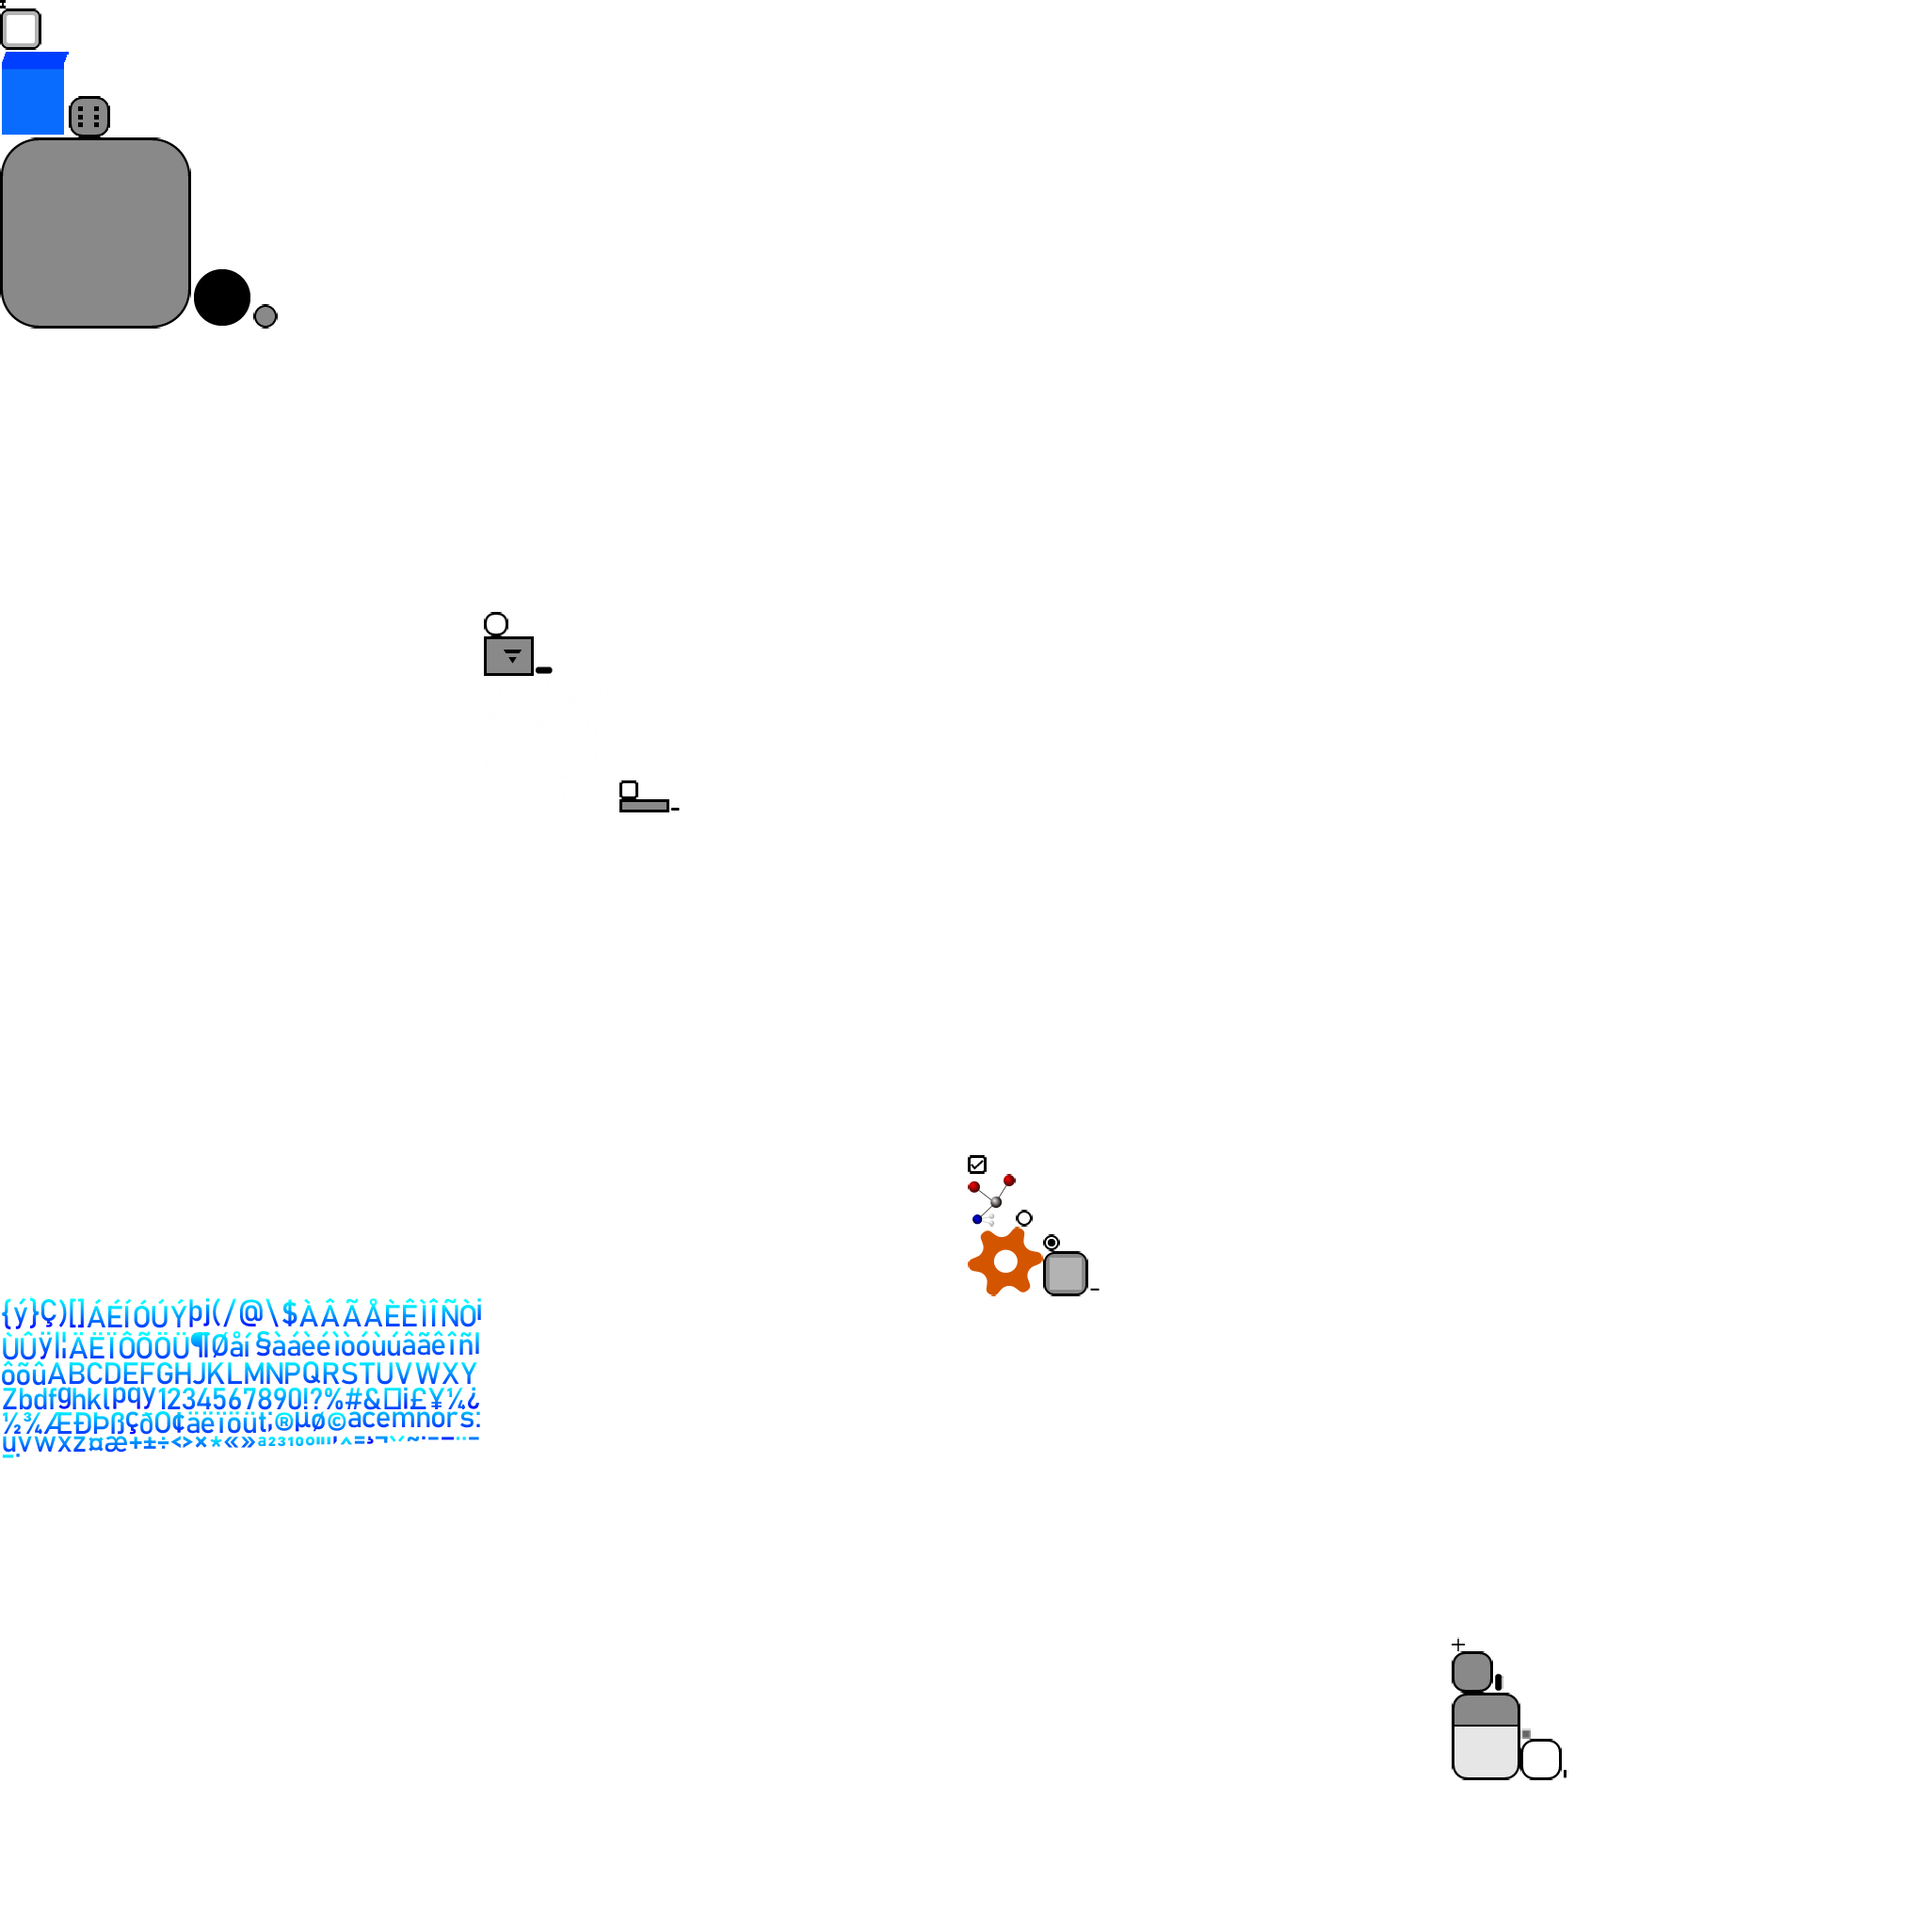
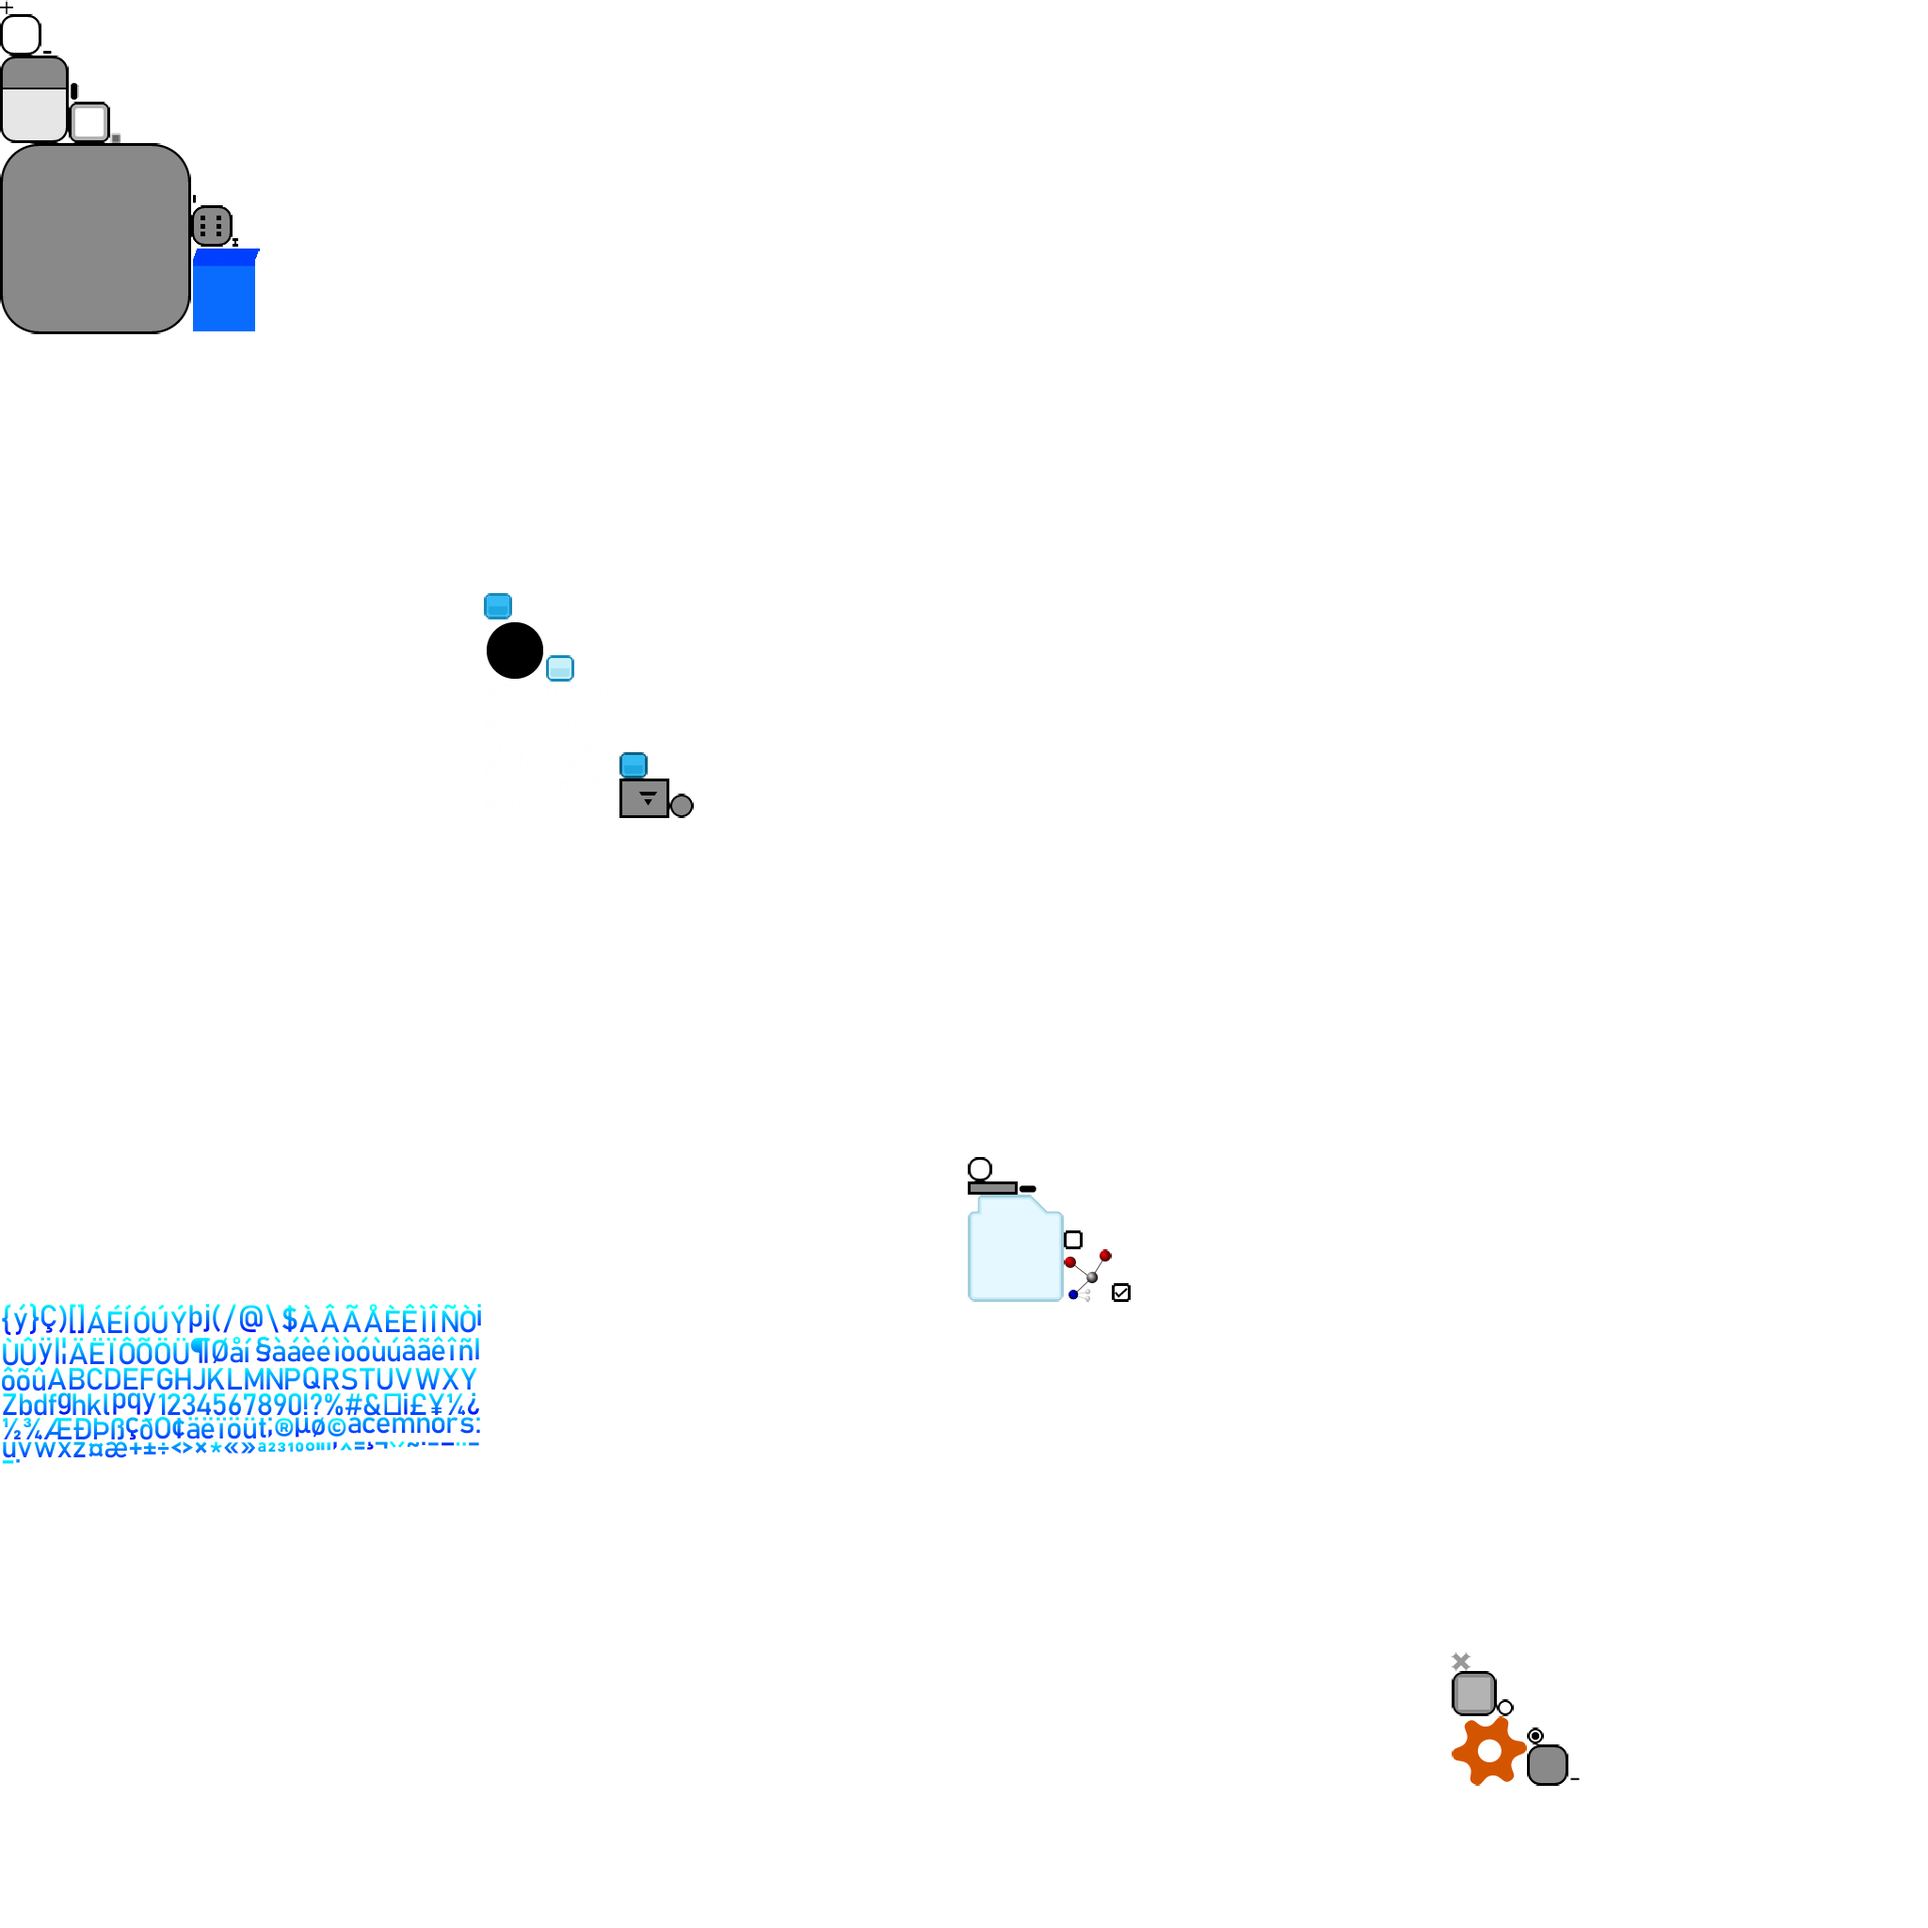
New appearance for windows/dialogs. New button control. Started work on adding a close button to windows but it's unresponsive so far.

diff --git a/core/src/main/kotlin/org/liamjd/herschel/screens/InnerPlanets.kt b/core/src/main/kotlin/org/liamjd/herschel/screens/InnerPlanets.kt
@@ -29,32 +29,36 @@ data class Planet(val name: String, val x: Float, val scale: Float, val color: C
 
 class InnerPlanets(herschel: Herschel, stage: Stage, skin: Skin) : AbstractGameplayScreen(herschel, stage, skin) {
 
+	lateinit var gameState: GameState
+
 	lateinit var yearLabel: Label
 	lateinit var planet: Actor
-	lateinit var backgroundActor: Image
+	var backgroundActor: Image = Image(Texture(Gdx.files.internal("ui/starfield.png")))
 	lateinit var gameMenu: KDialog
 	lateinit var blackOverlayImage: Actor
-	var blackScreenRenderer = ShapeRenderer()
+	lateinit var windowCloseButton: Actor
 	var modalVisible = false
 
 	var circleHighlight: ShapeRenderer = ShapeRenderer()
-	lateinit var gameState: GameState
+
+	init {
+		// create a custom actor for displaying a texture image
+		backgroundActor.setOrigin(stage.width / 2f, stage.height / 2f)
+		backgroundActor.setScale(2f)
+	}
 
 	override fun show() {
 		gameState = herschel.state
 		Scene2DSkin.defaultSkin = screenSkin
-
-		// create a custom actor for displaying a texture image
-		backgroundActor = Image(Texture(Gdx.files.internal("ui/starfield.png")))
-		backgroundActor.setOrigin(stage.width / 2f, stage.height / 2f)
-		backgroundActor.setScale(2f)
-
 
 		blackOverlayImage = Image(screenSkin.getRegion("white-overlay"))
 		blackOverlayImage.setOrigin(0f,0f)
 		blackOverlayImage.setSize(stage.width,stage.height)
 		blackOverlayImage.isVisible = false
 		blackOverlayImage.setColor(0f,0f,0f,0.75f)
+
+		windowCloseButton = Image(screenSkin.getRegion("grey_crossGrey"))
+		windowCloseButton.setSize(24f,24f)
 
 		// Load the sprite sheet as a Texture
 		val redPlanetTextureSheet = Texture(Gdx.files.internal("ui/red-planet-spritesheet.png"))
@@ -181,6 +185,7 @@ class InnerPlanets(herschel: Herschel, stage: Stage, skin: Skin) : AbstractGamep
 
 		// black overlay for modal dialogs
 		stage+= blackOverlayImage
+
 	}
 
 	private fun @Scene2dDsl StageWidget.buildGameMenu(): KDialog {
@@ -202,7 +207,7 @@ class InnerPlanets(herschel: Herschel, stage: Stage, skin: Skin) : AbstractGamep
 						herschel.setScreen<MainMenu>()
 					}
 				}
-			}
+			}.space(10f)
 		}
 	}
 
@@ -216,9 +221,10 @@ class InnerPlanets(herschel: Herschel, stage: Stage, skin: Skin) : AbstractGamep
 					planetWindow.isVisible = false
 					planetWindow.clearChildren()
 					planetWindow.titleLabel.setText("${planet.name} is lovely")
-					planetWindow.children.forEach { childActor ->
-						println(childActor)
-					}
+
+					planetWindow.titleTable.add(windowCloseButton)
+					windowCloseButton.onClick { planetWindow.isVisible = false }
+
 					planetWindow.verticalGroup {
 						label("Programmatically added label ${planet.name}")
 						label("Second added label ${planet.name}")

diff --git a/core/src/main/kotlin/org/liamjd/herschel/screens/NewGame.kt b/core/src/main/kotlin/org/liamjd/herschel/screens/NewGame.kt
@@ -84,11 +84,12 @@ class NewGame(herschel: Herschel, stage: Stage, skin: Skin, private val setup: G
 					}
 				}
 				countryDetails = label("","new-game-player-name") { cell ->
+					setText(hqs.first().flavourText)
 					setAlignment(Align.topLeft)
 					setWrap(true)
 					cell.colspan(3)
 					cell.fill()
-					isVisible = false
+					isVisible = true
 				}
 
 				row()
